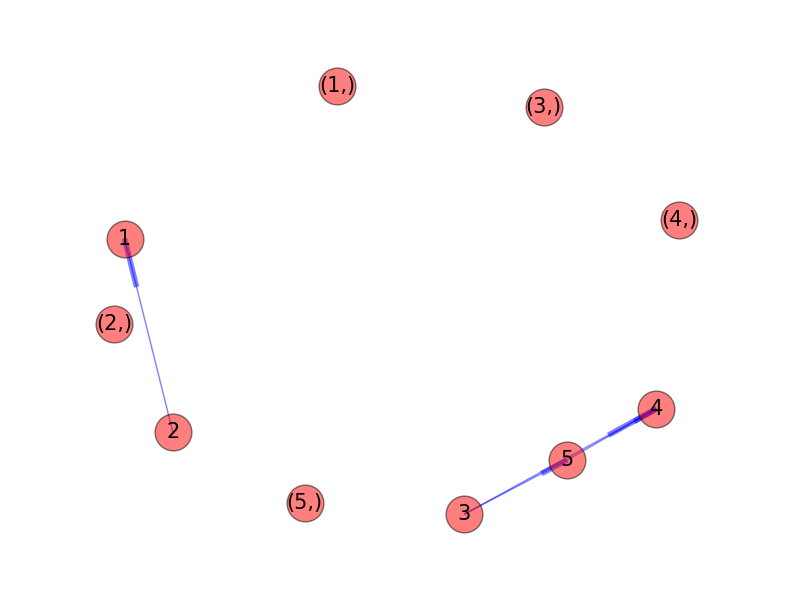
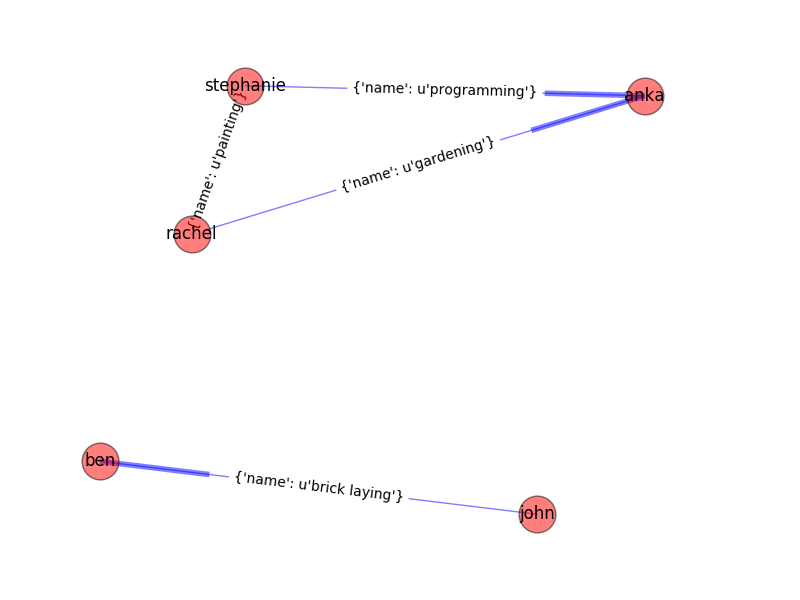
networkx graph

diff --git a/network.py b/network.py
@@ -13,25 +13,30 @@ from server import app
 connect_to_db(app)
 
 
-nodes = db.session.query(UserSkill.user_id).all()
-# nodes_edges = db.session.query(UserSkill.user_id,UserSkill.skill_id,UserSkill.skill_direction).all()
+nodes = db.session.query(UserSkill.user_id,User.user_fname).join(User).all() # nodes_edges = db.session.query(UserSkill.user_id,UserSkill.skill_id,UserSkill.skill_direction).all()
 skill_to = UserSkill.query.filter(UserSkill.skill_direction =='to').all()
-skill_from = UserSkill.query.filter(UserSkill.skill_direction =='from').all()
+# skill_from = UserSkill.query.filter(UserSkill.skill_direction =='from').all()
+skill_from = db.session.query(UserSkill,Skill.skill_name).join(Skill).filter(UserSkill.skill_direction=='from').all()
+
 
 Z = nx.DiGraph()
 Z.clear
 
-def add_nodes(data):
+# 
 
-    Z.add_nodes_from(data)
+def add_nodes(data):
+    for a in data:
+        Z.add_node(a[0],name=a[1])
+
+    # Z.add_nodes_from(data)
     print Z.nodes(data=True)
     # return Z
 
 add_nodes(nodes)
 
 def add_edges(skill_to, skill_from):
-    for x in skill_from:
-        Z.add_edges_from([(x.user_id, y.user_id)for y in skill_to if x.skill_id == y.skill_id])
+    for x, name_s in skill_from:
+        Z.add_edges_from([(x.user_id, y.user_id, {'name': name_s})for y in skill_to if x.skill_id == y.skill_id])
     print Z.edges(data=True)
     # return Z
 
@@ -39,8 +44,13 @@ add_edges(skill_to, skill_from)
 
 
 def create_graph(graph=Z):
-    nx.draw(Z, node_color="r",edge_color='blue', with_labels=True,alpha=0.5, 
-        node_size=700, width=1, font_size=15, scale=30)
+    pos = nx.spring_layout(Z)
+    nx.draw(Z, pos, node_color="r",edge_color='blue', #with_labels=True,
+        alpha=0.5, node_size=700, width=1, font_size=15, scale=30)
+    node_labels = nx.get_node_attributes(Z, 'name')
+    nx.draw_networkx_labels(Z, pos, labels=node_labels)
+    edge_labels = nx.get_edge_attributes(Z, 'name')
+    nx.draw_networkx_edge_labels(Z, pos, labels=edge_labels)
     plt.savefig('graph.png')
 
 create_graph()
